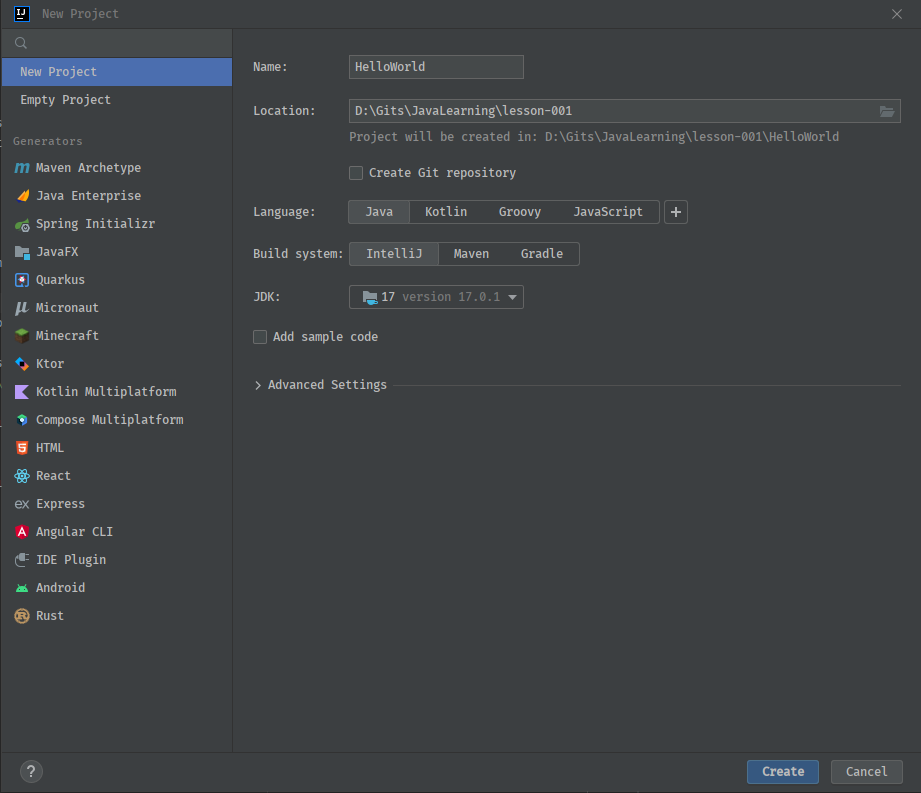
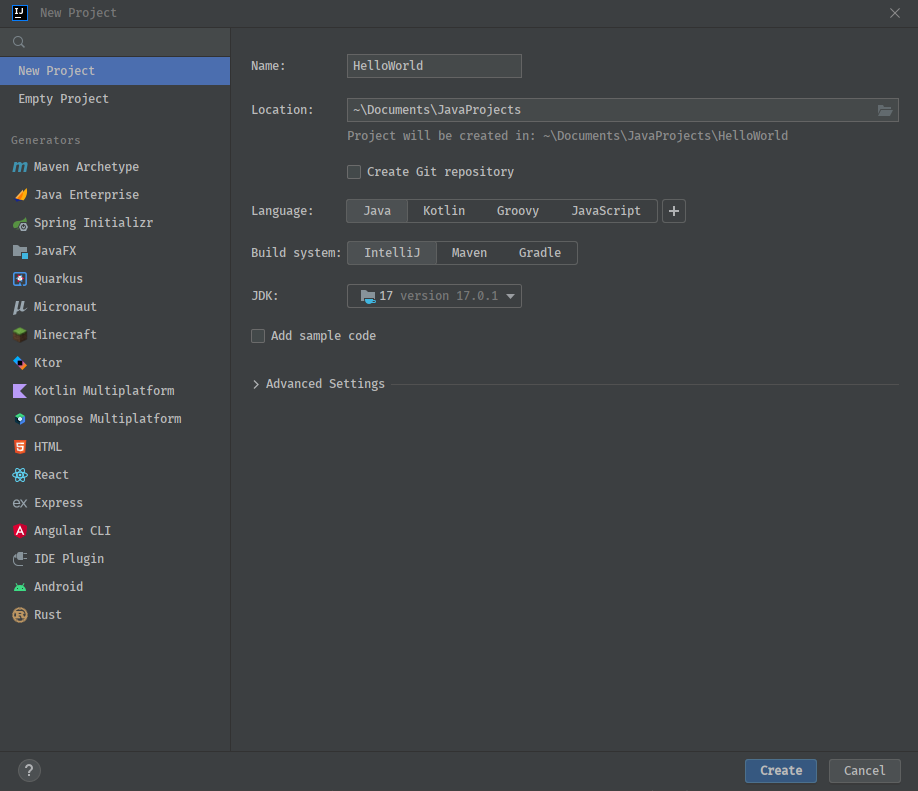
lesson 1 rewrites

diff --git a/lesson-001/README.md b/lesson-001/README.md
@@ -1,15 +1,15 @@
 # Lesson 1 - Hello World
 
-| Previous Lesson           |                Next Lesson |
-|:--------------------------|---------------------------:|
-| [Lesson 0](../lesson-000) |  [Lesson 2](../lesson-002) |
+|      Previous Lesson      |        Next Lesson         |
+|:-------------------------:|:--------------------------:|
+| [Lesson 0](../lesson-000) | [Lesson 2](../lesson-002)  |
 
 ## Projects Folder
 
 _yes, plural_
 
 This guide assumes you know how to create folders, or directories, on your computer. If you don't, please meet every
-programmer's best friend [Google](https://google.com) (sensing a trend yet?).
+programmer's best friend [Google](https://google.com).
 
 The first thing you need to do is create a single, dedicated folder for all your projects. This way, all the projects
 are in the same relative space and easy to find. If you scatter projects all over your computer, your future self will
@@ -31,7 +31,7 @@ be very upset with current you. Below are some recommendations on where to creat
     3. Create a new folder called "JavaProjects"
 
 Feel free to put this folder where you want, as long as you remember where. Eventually, you will likely end up with
-dozens, if no hundreds, of sub-folders inside the main projects-folder.
+dozens, if not hundreds, of sub-folders inside this projects-folder.
 
 ## Create a New Intellij Project
 
@@ -40,28 +40,29 @@ dozens, if no hundreds, of sub-folders inside the main projects-folder.
     * If no open projects are cached, you may have a special starting menu with a `New Project` button or something
       similar.
 3. Name this project: "HelloWorld"
+    * Make sure there are no spaces!
 4. Make sure the `Location` is inside your projects-folder created earlier.
-5. For the `Build System`: select `Intellij`
+    * For Windows and Mac users, the start may be replaced with `~\Documents\`, and that is okay.
+5. Make sure the `Language` selected is `Java`.
+6. For the `Build System`: select `Intellij`
     * We will eventually explain build systems in more detail later, at which point we will switch to using `Maven`.
-6. For `JDK`: select Java 17 from the dropdown
+7. For `JDK`: select Java 17 from the dropdown
     * May show as just "`17`"
     * You may need to select `Add JDK...` and browse to the Java 17 install location that you were told to write down
       earlier.
         * Probable Windows Location: `C:\Program Files\Eclipse Adoptium\jdk-VERSION-hotspot`
-7. Click `Create` at the bottom right.
+8. Click `Create` at the bottom right.
 
 ![CreateProject](images/CreateHelloWorldProject.png)
-
-**Note**:
-You may notice that my projects-folder is at `D:\Gits`. I am using Windows, and have a second storage drive in my
-computer. If you have already downloaded this guide onto your computer, you are welcome to create HelloWorld right here!
-Don't worry if you haven't though, we will get there in a later lesson.
 
 ### Empty Project
 
 After the project is created, you should have an empty project window opened that will looks something like this:
 
 ![EmptyProject](images/EmptyProject.png)
+
+_If you look really close, you may notice I actually created my version of this project in the same lesson folder as
+this! You can ignore this slight difference._
 
 ### Project Window Breakdown
 
@@ -74,7 +75,8 @@ Let's break down some of the basics of an Intellij IDEA project window.
         1. The `.idea` folder: This folder contains [metadata](../terminology.md) about your project specific to
            Intellij so that it knows this is a Java project, and some additional information about the structure. You
            can ignore this folder, it is only for Intellij to use.
-        2. The `src` folder: This is where you put your actual code. Only code inside this folder will be compiled.
+        2. The `src` folder: This is where you put your actual code. Only code inside this folder will be
+           [compiled](../terminology.md).
         3. The `HelloWorld.iml` file: This is more metadata for Intellij, you can ignore it.
 2. Left tab-bar
     * This is at the very left of the screen, the text is sideways, and you should at least see a tab labeled
@@ -111,12 +113,13 @@ Name the package, in my case "aetherial"
 Now you should see a new folder inside `src`! Notice that the folder icon is slightly different from the other ones. It
 looks and behaves like a regular folder, but it is a _special_ Java folder. Remember how I previously said that only
 code inside the `src` folder will be compiled? So will any code files inside _packages_ and _sub-packages_
-under the `src` folder!
+under the `src` folder! Remember, _package_ is just Java's fancy word for folder (mostly, we'll talk more about this
+later).
 
 If you were to create a folder under `src` not using Intellij (File Explorer, terminal, or Finder), Intellij will
 automatically know that the new folder should be treated as a package.
 
-**_I thought you said packages were different from folders!_**
+> _I thought you said packages were different from folders!_
 
 This starts getting complicated, _really_ complicated, to explain. The short version is: packages are the folder
 structure for compiled code. They allow you to define _namespaces_ where your Java code exists, this helps prevent the
@@ -138,7 +141,7 @@ You should now have a file named "HelloWorld" created and open in the center win
 
 ### What is a Class?
 
-**_Whoa! Slow down! What is a Class file? And what are those other options about?_**
+> _Whoa! Slow down! What is a Class file? And what are those other options about?_
 
 This is also very in-depth topic that will be covered later. For now, just understand that "Class files" are your Java
 code files that will be compiled and ran.
@@ -162,13 +165,15 @@ public class HelloWorld {
 3. The remaining curly-bracket `}`
     * This is also part of the Java syntax. Every opening curly-bracket `{` needs a buddy closing curly bracket `}`
       that comes after the opening one!
+    * I will interchangeably use curly-bracket and curly-brace to describe either of `{` and `}` (sometimes I even leave
+      out the dash between the words, scandalous I know).
 
 ### Syntax? I hate taxes!
 
 I promise you are more familiar with "syntax" than you might think. This guide is written in English, and I have been
-using English _syntax_ this entire time! Syntax can be though of a broader term for "grammar". Think about the following
-sentence: "Dog fence the jumped lazy the over." It makes no sense! Complete gibberish! The order of words matters a lot
-in any language.
+using English _syntax_ this entire time! Syntax can be thought of as broader term for "grammar". Think about the
+following sentence: "Dog fence the jumped lazy the over." It makes no sense! Complete gibberish! The order of words
+matters a lot in any language.
 
 Now as humans, we can figure out I _meant_ to say "The lazy dog jumped over the fence." That is great and all for us,
 but computers are not good at understanding what we _meant_ to say. Computers are very literal when it comes to the
@@ -192,17 +197,17 @@ public class HelloWorld {
 }
 ```
 
-**_WHAT DO ALL THESE WORDS MEAN?!?!?!_**
+> **_WHAT DO ALL THESE WORDS MEAN?!?!?!_**
 
 Calm down, I will answer your questions by yet again waving my hands through the air and telling you that it will be
 explained later!
 
-**_YOU KEEP SAYING LATER, WILL THAT EVER ACTUALLY HAPPEN!?!?!_**
+> **_YOU KEEP SAYING LATER, WILL THAT EVER ACTUALLY HAPPEN!?!?!_**
 
 Yes, I promise! Assuming you continue this guide and learning about Java that is.
 
-For now, we are going to pretend that only code written between those inner curly-braces after "public static void main(
-String[] args)" `{` and before its closing buddy `}` will be run.
+For now, we are going to pretend that only code written between those inner curly-braces after
+`public static void main(String[] args) {` and before its closing buddy `}`, will be executed.
 
 ### Play Button
 
@@ -235,6 +240,8 @@ Process finished with exit code 0
 You have successfully built, compiled, and executed your first program! Remember from
 [Lesson 0](../lesson-000/README.md) how I told you not to worry about manually compiling your code because the IDE will
 take care of all that for you? See, we did get to "later" on one topic, more "later"s to come!
+
+### The `out` Folder
 
 You may have noticed a new folder called `out` that appeared in your project window. This is where the compiled code
 lives. If you open the folder in Intellij and find your HelloWorld Class file, you will likely see it looks almost
@@ -275,7 +282,7 @@ public class HelloWorld {
 
 #### Usage
 
-`System.out.println()` is the first piece of Java code almost everyone learns, and everyone continues to use it until
+`System.out.println();` is the first piece of Java code almost everyone learns, and everyone continues to use it until
 they stop programming. This is not a "one and done" lesson. You will print things to the console in _every single_
 lesson, and even in programming careers.
 
@@ -286,9 +293,11 @@ the parenthesis and quotation marks of `System.out.println("");` will appear in 
 small, but very important piece to remember, is that almost every line of code inside those inner curly braces needs to
 end with a semicolon "`;`". The main exception being if the line ends with an open `{` or closed `}` curly brace.
 
+## The Top Play Button
+
 You may have noticed that the little play button at the top is no longer grayed out! By pushing the play button on the
-side which you did earlier, you have now told Intellij _where_ the entry point to your program is. Now you can click the
-same play button as earlier, or the play button at the top!
+side, which you did earlier, you have now told Intellij _where_ the entry point to your program is. Now you can click
+the same play button as earlier, or the play button at the top!
 
 ```text
 "C:\Program Files\Eclipse Adoptium\jdk-17.0.1.12-hotspot\bin\java.exe" "-javaagent:C:\Program Files\JetBrains\IntelliJ IDEA 2021.2.3\lib\idea_rt.jar=56332:C:\Program Files\JetBrains\IntelliJ IDEA 2021.2.3\bin" -Dfile.encoding=UTF-8 -classpath D:\Gits\JavaLearning\lesson-001\completed\HelloWorld\out\production\HelloWorld aetherial.HelloWorld
@@ -321,8 +330,8 @@ Congratulations on writing your very first Java program! What do you mean you ba
 on? That is perfectly 100% A-Okay and expected (and completely normal)!
 
 Programming is not something you can pick up in a few hours. Just like any other skill or trade, you must practice, and
-the practice some more, and then practice even more after that, and then... getting the picture yet? You will not become
-an expert programmer that understands everything over a single night. Yes some people have a "natural talent" for
+then practice some more, and then practice even more after that, and then... getting the picture yet? You will not
+become an expert programmer that understands everything over a single night. Yes some people have a "natural talent" for
 programming and will learn it faster, but do NOT be discouraged. It takes time, effort, and a willingness to learn and
 practice!
 
